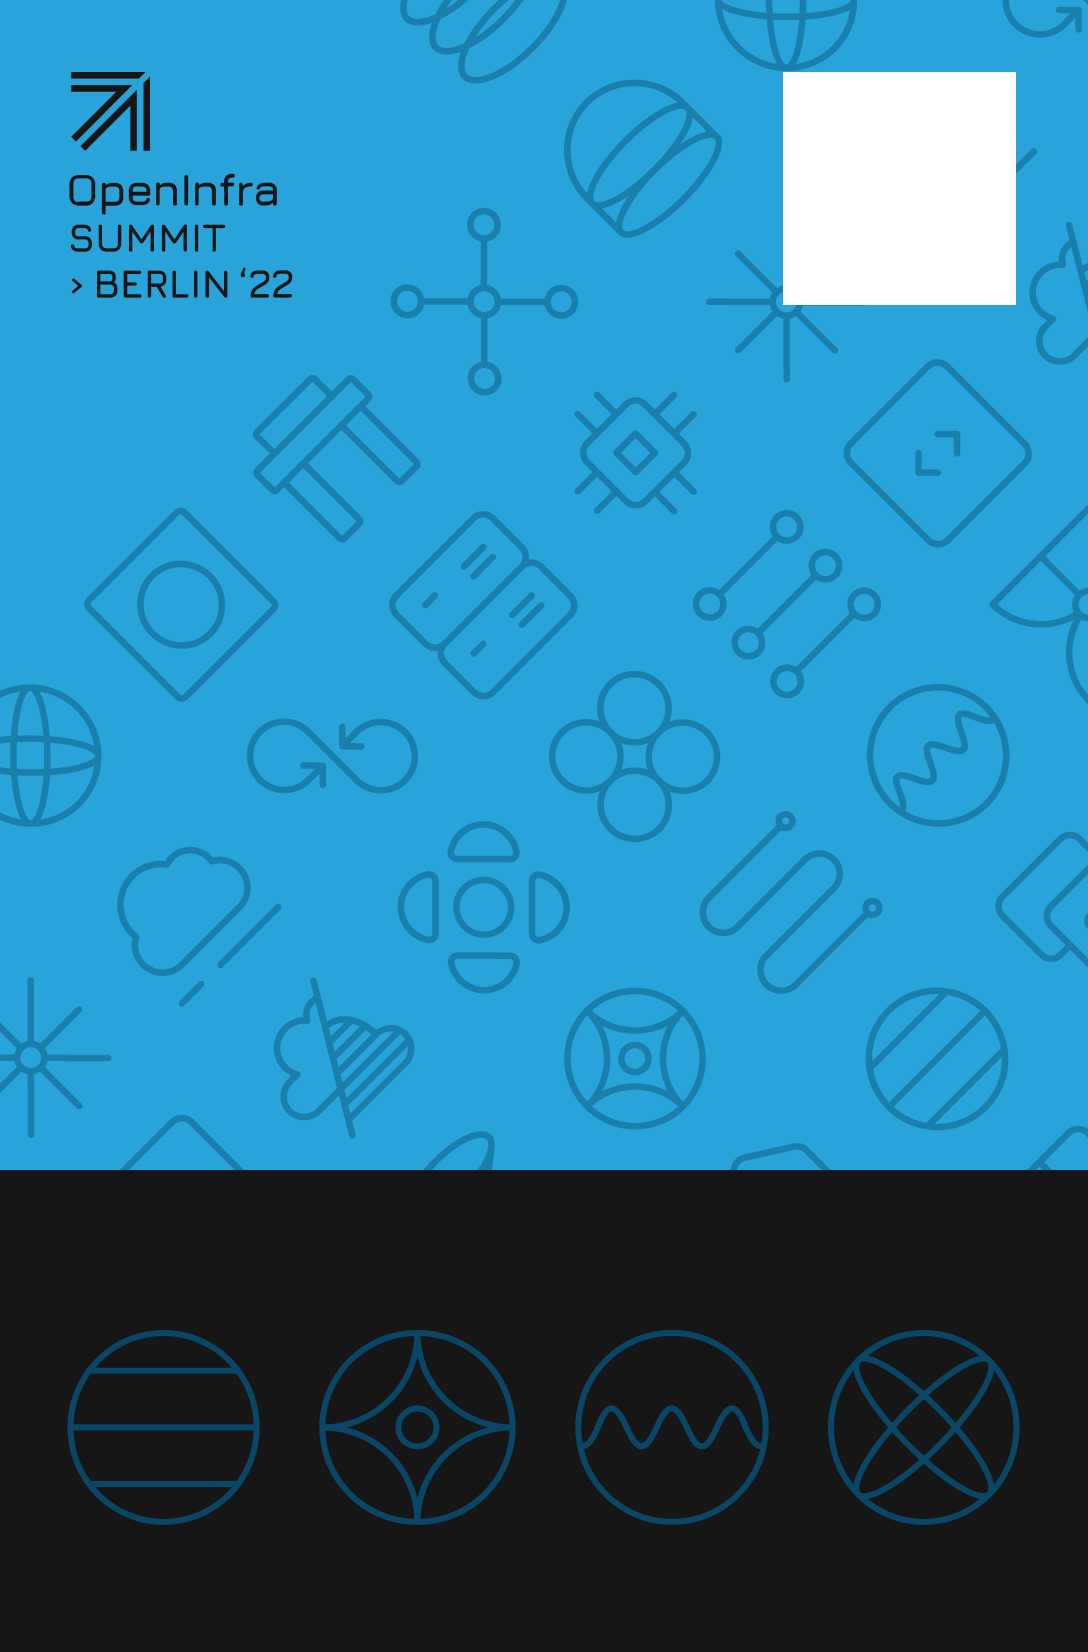
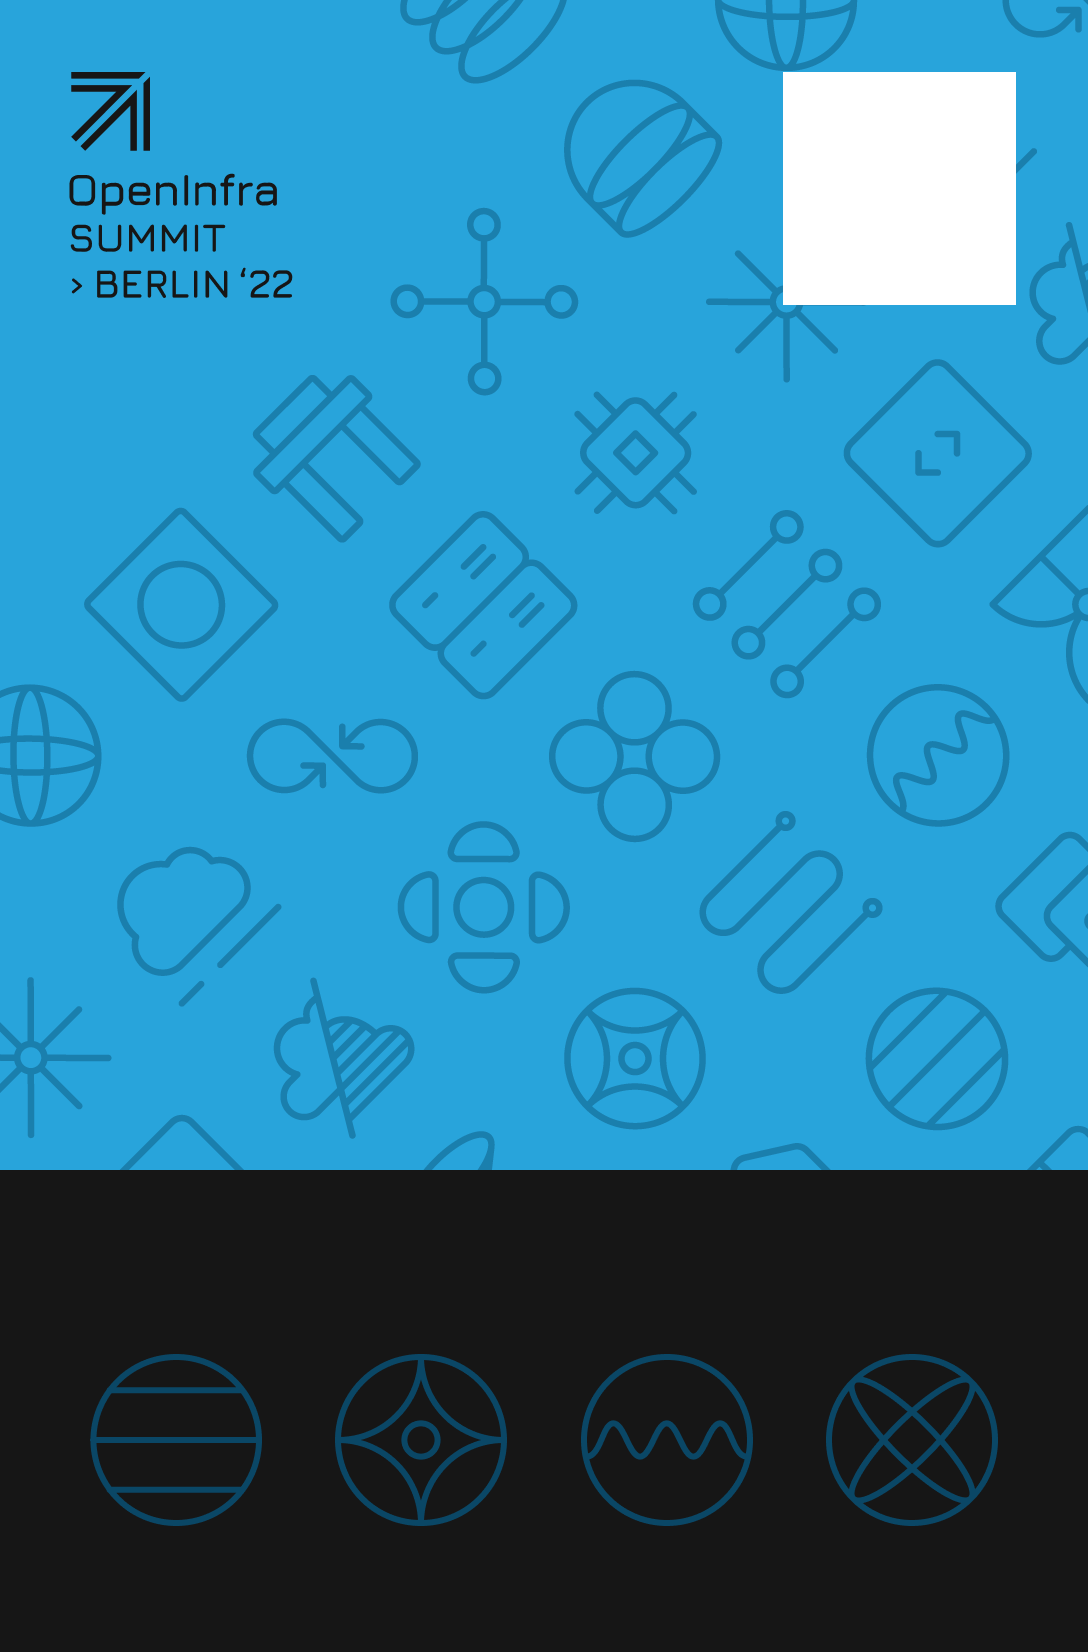
Adjusts styles and assets.

diff --git a/src/badge_templates/berlin-2022/shared/styles/styles_1.less b/src/badge_templates/berlin-2022/shared/styles/styles_1.less
@@ -81,13 +81,13 @@
 .features {
 		position: absolute;
 		width: 100%;
-		top: 420px;
-		padding: 0 10px;
+		top: 113.1355mm;
+		padding-left: 6mm;
 		display: flex;
 		img {
-			height: 75px !important;
-			width: 75px;
-			margin-left: 8px;
+			height: 17.7676mm !important;
+			width: 17.7676mm;
+			margin-left: 2.9577mm;
 			&:nth-of-type(1) {
 				margin-left: 0px;
 			}
